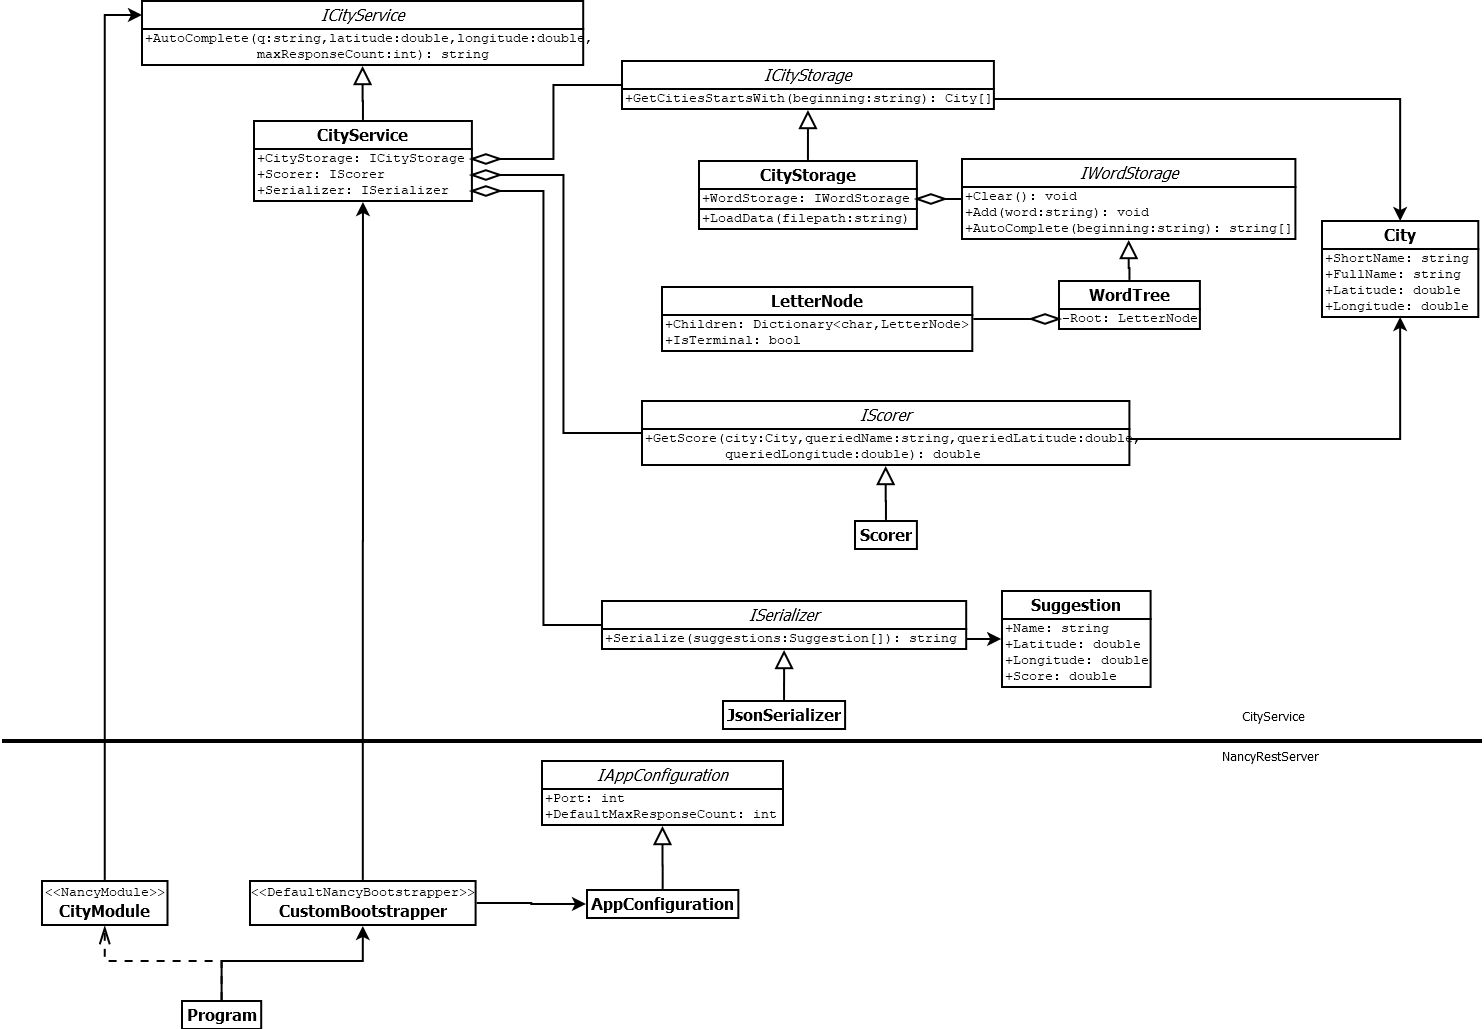
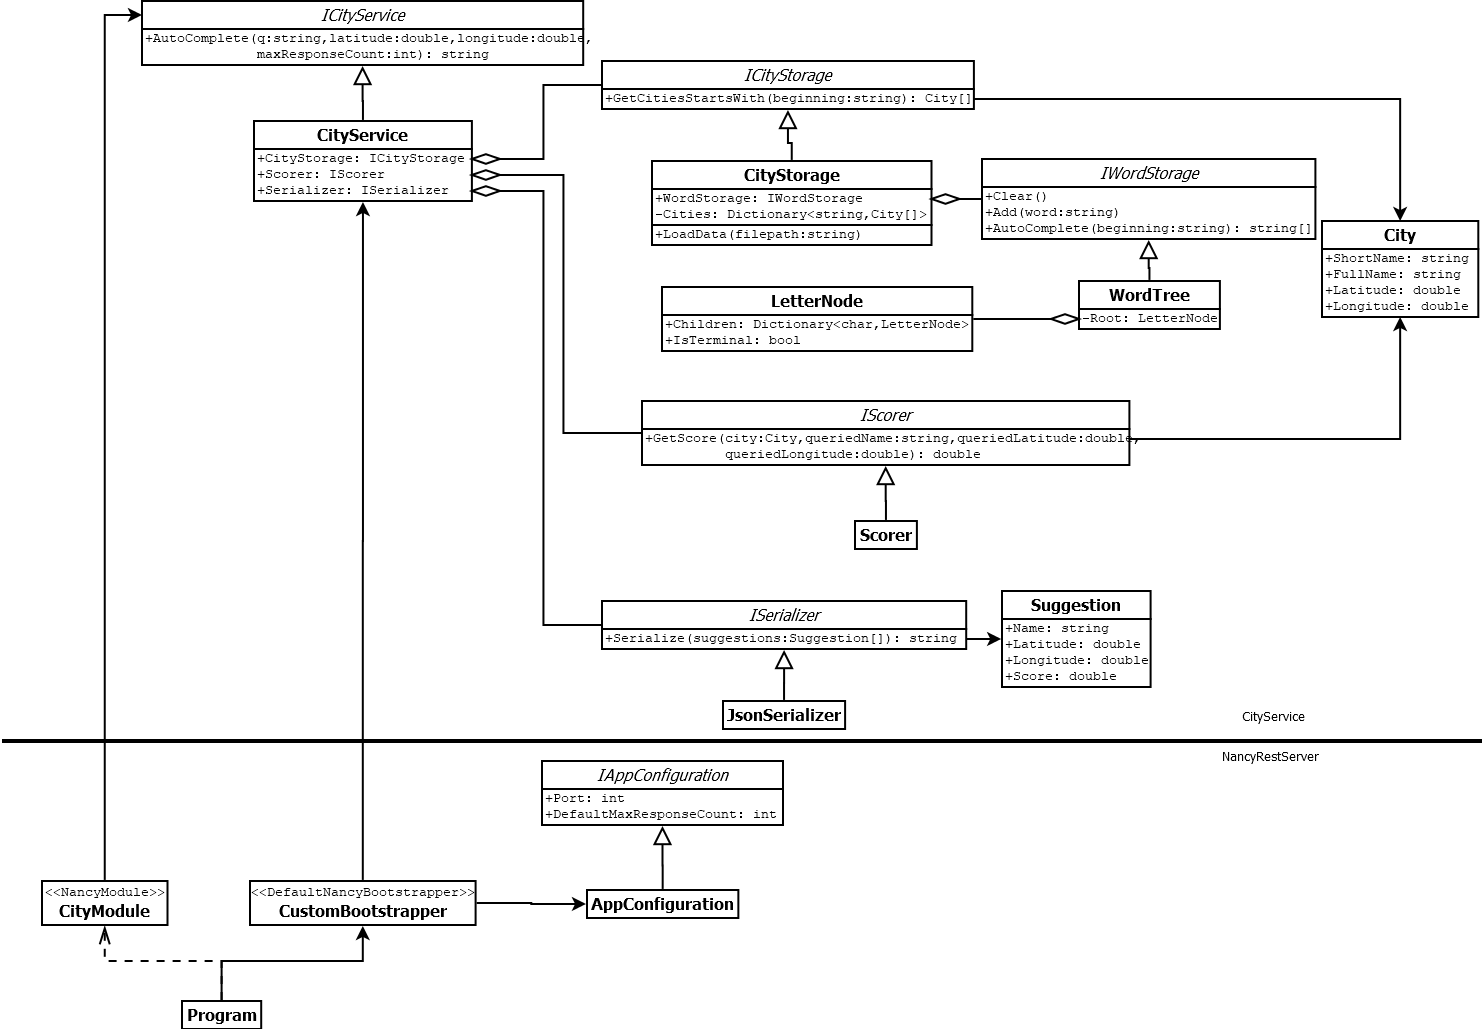
Fix issue where suggestions are returned with city names all in lower case characters
- Also update the design UML diagram to include the private dictionary to store the City objects by the city name

Changed region(s): [[0.403, 0.0622, 0.8989, 0.311]]

diff --git a/CityService/Implementation/CityStorage.cs b/CityService/Implementation/CityStorage.cs
@@ -139,7 +139,7 @@ namespace CityService.Implementation
             return new City
             {
                 ShortName = name.ToLowerInvariant(), // city names with different capitalization should still be the same city
-                FullName = fullName.ToLowerInvariant(),
+                FullName = fullName,
                 Latitude = latitude,
                 Longitude = longitude
             };
